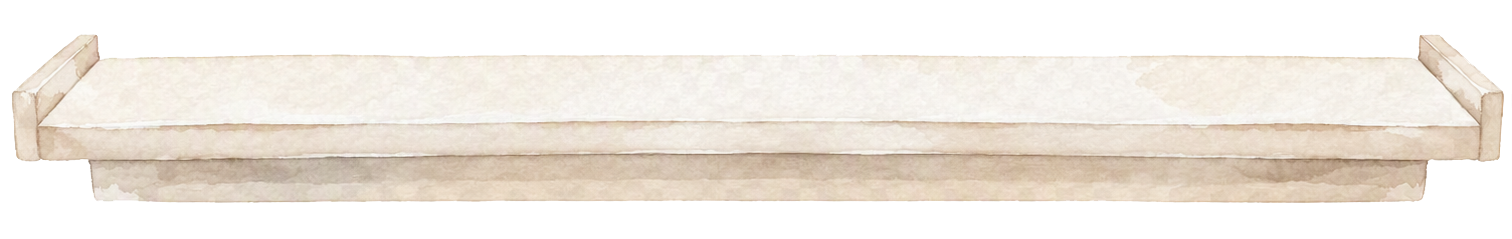
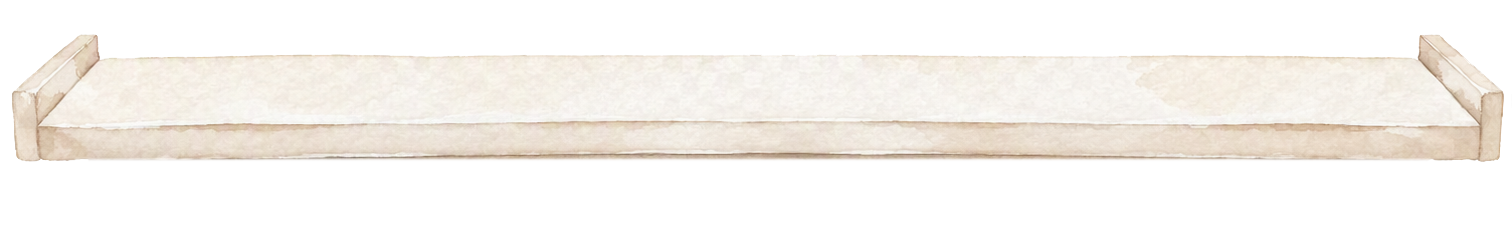
Add files via upload

Changed region(s): [[0.0311, 0.6444, 0.9636, 0.8494]]

diff --git a/index.html b/index.html
@@ -530,10 +530,9 @@ g.organ.sel .fillpart{filter:drop-shadow(0 0 5px rgba(166,79,71,.8))}
 #shelves{display:flex;flex-direction:column;gap:16px;margin-top:12px}
 .shelf{position:relative}
 .shelf-items{display:flex;flex-wrap:wrap;gap:8px;align-items:flex-end;min-height:50px;padding:4px 10px 6px}
-.shelf-board{height:26px;border-radius:0;position:relative;
+.shelf-board{height:26px;border-radius:2px;position:relative;
   background:url(/images/hyllplan.png);background-size:100% 100%;
-  box-shadow:0 2px 3px rgba(90,70,40,.25);
-  margin-left:-16px;margin-right:-16px}
+  box-shadow:0 2px 3px rgba(90,70,40,.25)}
 .shelf-board::after{content:"";position:absolute;left:3px;right:3px;top:100%;height:26px;
   background:linear-gradient(180deg,rgba(95,75,45,.34),rgba(95,75,45,0))}
 .shelfTag{display:inline-block;margin:0 0 3px 12px;